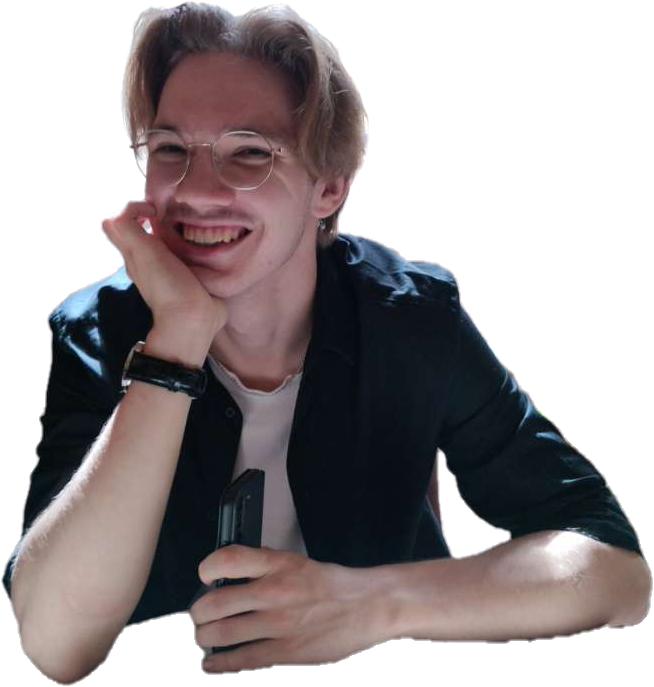
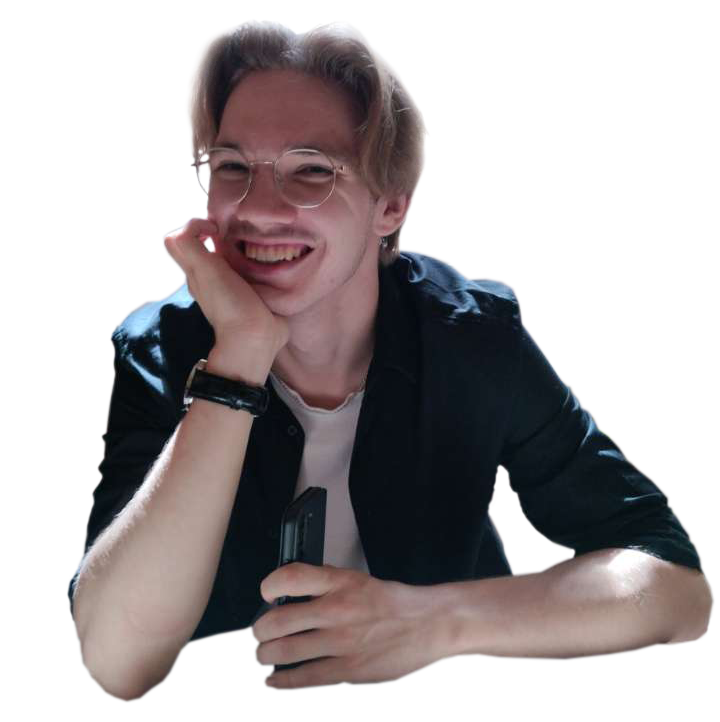
Add: about me and footer.

diff --git a/src/components/AboutMe/AboutMe.tsx b/src/components/AboutMe/AboutMe.tsx
@@ -1,7 +1,66 @@
+import { OpenInNew } from '@mui/icons-material';
+import Colors from '../../colors';
+import './styles.css';
+import { DotPatternSVG } from '../util/Patterns';
+
 export default function AboutMe() {
   return (
-    <div>
-      <p>About me</p>
+    <div className='ab-me-container'>
+      <div style={{ position: 'relative', width: 'max-content' }}>
+        <div className='ab-me-img-shadow' />
+        <img className='img-me' src='/me2.png' />
+      </div>
+      <div>
+        <div style={{ position: 'relative', zIndex: 10 }}>
+          <h2
+            className='about-me-title'
+            style={{ color: Colors.purple, zIndex: 20, position: 'relative' }}
+          >
+            About me
+          </h2>
+          <div
+            style={{
+              position: 'absolute',
+              top: 0,
+              left: 0,
+              height: 'clamp(4rem, 5vw, 5rem)',
+              width: 'clamp(10rem, 20vw, 20rem)'
+            }}
+          >
+            <DotPatternSVG color='grey' />
+          </div>
+        </div>
+        <div className='ab-me-desc'>
+          <p>
+            In December 2025 I graduated from the{' '}
+            <a
+              target='_blank'
+              rel='noopener noreferrer'
+              href='https://www.tuni.fi/fi/tule-opiskelemaan/tietojenkasittelyn-tutkinto-ohjelma'
+              style={{
+                color: '#8bbeff',
+                textDecoration: 'underline',
+                cursor: 'pointer'
+              }}
+            >
+              Tampere University of Applied Sciences <OpenInNew />
+            </a>{' '}
+            with a Degree Programme in Business Information Systems, Software
+            Production. I had the opportunity to make friends with some amazing
+            people while learning more about what I love doing, programming! I
+            love learning new things and continuously strive to develop my
+            skills and grow as a person. I enjoy working with people, taking on
+            new challenges, and learning from them!
+          </p>
+          <p>
+            I've always considered myself a quick learner, and seeking knowledge
+            has always been something I aspire toward. I strive to improve my
+            skills and knowledge every day! My goal is to be able to look back
+            at myself a year ago and say, 'Wow! I knew nothing!'. My goal is to
+            be the best version of myself I can be!
+          </p>
+        </div>
+      </div>
     </div>
   );
 }

diff --git a/src/components/AboutMe/styles.css b/src/components/AboutMe/styles.css
@@ -1,0 +1,77 @@
+.ab-me-container {
+  display: flex;
+  gap: 8rem;
+  justify-content: center;
+  margin-top: 10rem;
+}
+
+.ab-me-img-shadow {
+  width: 95%;
+  height: 7rem;
+  border-radius: 50%;
+  background-color: #141414;
+  position: absolute;
+  bottom: 0px;
+  right: 0px;
+  z-index: 5;
+}
+
+.ab-me-desc {
+  width: 40rem;
+  font-size: 1.4rem;
+}
+
+.about-me-title {
+  margin: 0;
+  font-size: clamp(4rem, 10vw, 8rem);
+  font-weight: 800;
+  margin-bottom: 1rem;
+  margin-left: 3rem;
+}
+
+.img-me {
+  position: relative;
+  width: auto;
+  padding-left: 2rem;
+  padding-bottom: 1rem;
+  height: 50rem;
+  z-index: 10;
+}
+
+@media (max-width: 990px) {
+  .ab-me-container {
+    gap: 4rem;
+  }
+
+  .img-me {
+    height: 40rem;
+  }
+
+  .ab-me-img-shadow {
+    height: 6rem;
+  }
+
+  .ab-me-desc {
+    font-size: 1.3rem;
+    width: 35rem;
+  }
+}
+
+@media (max-width: 810px) {
+  .ab-me-container {
+    align-items: center;
+    flex-direction: column-reverse;
+  }
+
+  .ab-me-desc {
+    font-size: 1.2rem;
+    width: 33rem;
+  }
+}
+
+@media (max-width: 580px) {
+  .ab-me-desc {
+    font-size: 1.1rem;
+    width: 22rem;
+  }
+}

diff --git a/src/App.tsx b/src/App.tsx
@@ -1,4 +1,5 @@
 import AboutMe from './components/AboutMe/AboutMe';
+import Footer from './components/Footer/Footer';
 import Header from './components/Header/Header';
 import Projects from './components/Projects/Projects';
 import Skills from './components/skills/Skills';
@@ -7,13 +8,14 @@ import WorkExperience from './components/WorkExperience/WorkExperience';
 
 function App() {
   return (
-    <div style={{ marginBottom: '5rem', width: '100%', overflow: 'hidden' }}>
+    <div style={{ width: '100%', overflow: 'hidden' }}>
       <TopBar />
       <Header />
       <Projects />
       <Skills />
       <WorkExperience />
       <AboutMe />
+      <Footer />
     </div>
   );
 }

diff --git a/src/components/Header/Header.tsx b/src/components/Header/Header.tsx
@@ -88,8 +88,8 @@ const ProfilePicture = () => {
             height: '100%',
             //backgroundColor: Colors.light,
             backgroundImage: "url('/me.png')",
-            backgroundSize: '110%',
-            backgroundPosition: '-100% -40%',
+            backgroundSize: '130%',
+            backgroundPosition: '10% -0%',
             backgroundRepeat: 'no-repeat',
             clipPath: 'url(#photo-bg)'
           }}

diff --git a/src/components/Footer/Footer.tsx b/src/components/Footer/Footer.tsx
@@ -1,0 +1,20 @@
+import './styles.css';
+
+export default function Footer() {
+  return (
+    <div
+      style={{
+        backgroundColor: '#080808',
+        width: '100%',
+        height: '10rem',
+        marginTop: '20rem',
+        display: 'flex',
+        alignItems: 'center'
+      }}
+    >
+      <p className='copyright-text'>
+        All rights reserved ©Patrick Palmroos 2026
+      </p>
+    </div>
+  );
+}

diff --git a/src/components/WorkExperience/styles.css b/src/components/WorkExperience/styles.css
@@ -189,18 +189,18 @@
   }
 
   .job-title-description-container {
-    width: 26rem;
+    width: 24rem;
     height: 39rem;
   }
 
   .job-description-container {
-    width: 26rem;
+    width: 24rem;
     height: 35rem;
-    font-size: 1.2rem;
+    font-size: 1.1rem;
   }
 
   .job-title-container {
-    width: 25rem;
+    width: 23rem;
     height: 5.5rem;
     font-size: 1.3rem;
     line-height: 0.8rem;

diff --git a/src/components/Footer/styles.css b/src/components/Footer/styles.css
@@ -1,0 +1,11 @@
+.copyright-text {
+  padding-left: 1rem;
+  font-size: 1.2rem;
+  color: grey;
+}
+
+@media (max-width: 580px) {
+  .copyright-text {
+    font-size: 1rem;
+  }
+}

diff --git a/README.md b/README.md
@@ -5,4 +5,4 @@ This repo contains my portfolio
 ## License and Usage
 
 **You may not reuse, copy, distribute, or modify this code** without explicit permission.
-All rights reserved ©Patrick Palmroos 2025.
+All rights reserved ©Patrick Palmroos 2026.
